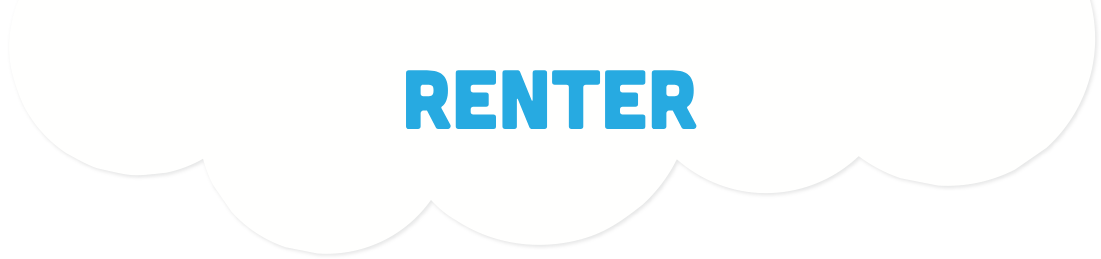
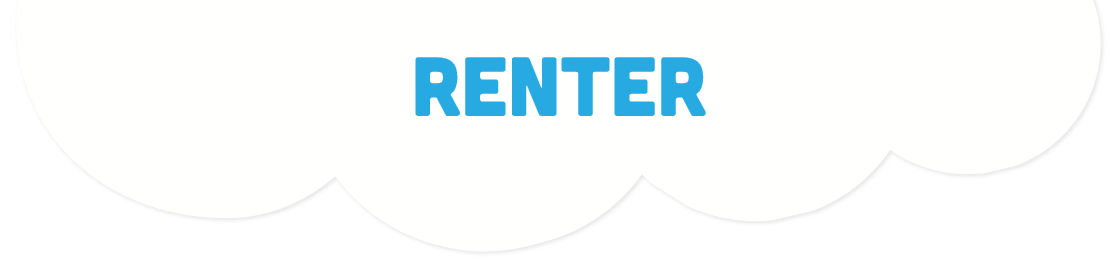
renter edit

Changed region(s): [[0.3706, 0.2162, 0.6485, 0.5251]]

diff --git a/src/app/auth/renter-register/renter-register.component.ts b/src/app/auth/renter-register/renter-register.component.ts
@@ -5,6 +5,8 @@ import { Router, ActivatedRoute } from '@angular/router';
 import { Web3Service } from '../../providers/web3/web3.service';
 import { UserWalletService } from '../../providers/user-wallet/user-wallet.service';
 import { RenterFactoryService } from '../../providers/renter-factory/renter-factory.service';
+import { ToastrService } from 'ngx-toastr';
+import { MustMatch } from '../../providers/helpers/MustMatch';
 const networkPath = require('electron').remote.getGlobal('networkPath');
 const path = require('path');
 const getNodeKey = require('../../../assets/js/helpers/getNodeKey.js');
@@ -27,6 +29,8 @@ export class RenterRegisterComponent implements OnInit {
   errorMessage;
   type = { Org: 0, Individual: 1 };
   currentType;
+  submitted = false;
+  Loading = false ;
   constructor(
     private rentersFactoryService: RenterFactoryService,
     private web3Service: Web3Service,
@@ -34,6 +38,7 @@ export class RenterRegisterComponent implements OnInit {
     private formBuilder: FormBuilder,
     private authService: AuthService,
     private route: ActivatedRoute,
+    private toastr: ToastrService ,
     private router: Router
   ) {
     this.createAccount('');
@@ -43,16 +48,19 @@ export class RenterRegisterComponent implements OnInit {
     this.renterRegisterForm = this.formBuilder.group({
       username: ['', Validators.required],
       bankAccount: ['', Validators.required],
-      email: ['', Validators.required],
-      password: ['', Validators.required],
+      email: ['', [Validators.required, Validators.email]],
+      password: ['', [Validators.required, Validators.minLength(7)]],
+      confirmPassword : ['', Validators.required],
       staticIP: ['', Validators.required],
       ethereumAddress: ['', Validators.required],
       // enode : ['' , Validators.required ],
       termService: ['', Validators.required],
       privacyPolicy: ['', Validators.required]
-    });
-    this.getIp();
+    }, {
+      validator: MustMatch('password', 'confirmPassword')
+  });
 
+    this.getIp();
     this.route.queryParams.subscribe(params => {
       const type = params['type'];
       console.log(type, ' type');
@@ -68,6 +76,8 @@ export class RenterRegisterComponent implements OnInit {
       }
     });
   }
+  get f() { return this.renterRegisterForm.controls; }
+
   async getIp() {
     try {
       const ip = await publicIp.v4();
@@ -78,6 +88,7 @@ export class RenterRegisterComponent implements OnInit {
     }
   }
   renterRegister() {
+    this.submitted = true;
     this.savetoContract();
   }
   returnToLogin() {
@@ -163,7 +174,7 @@ export class RenterRegisterComponent implements OnInit {
 
   savetoContract() {
     console.log('sending to contract');
-
+    this.Loading = true ;
     this.rentersFactoryService
       .renterRegisterSigned(
         this.currentType,
@@ -173,6 +184,7 @@ export class RenterRegisterComponent implements OnInit {
       )
       .then(s => {
         console.log(s, 'save to contract');
+        this.Loading = false ;
         if (s) {
           this.exportToFile(this.accountData);
           this.getEnode();
@@ -185,7 +197,6 @@ export class RenterRegisterComponent implements OnInit {
   }
   saveToNodeServer() {
     console.log(this.enode, 'this.enode');
-
     this.authService
       .registerClient(
         this.renterRegisterForm.value.username,

diff --git a/src/app/auth/login/login.component.ts b/src/app/auth/login/login.component.ts
@@ -2,7 +2,7 @@ import { Component } from '@angular/core';
 import { AuthService } from '../core/auth.service';
 import { Router, Params } from '@angular/router';
 import { FormBuilder, FormGroup, Validators } from '@angular/forms';
-// import { ToastrService } from 'ngx-toastr';
+import { ToastrService } from 'ngx-toastr';
 @Component({
   selector: 'app-login',
   templateUrl: 'login.component.html',
@@ -12,11 +12,12 @@ export class LoginComponent {
   loginForm: FormGroup;
   errorMessage: string = '';
   cate: any;
+  Loading =  false ;
 
   constructor(
     public authService: AuthService ,
     private router: Router ,
-    // private toastr: ToastrService ,
+    private toastr: ToastrService ,
     private fb: FormBuilder
   ) {
     this.createForm();
@@ -52,6 +53,7 @@ export class LoginComponent {
   // }
 
   login() {
+    this.Loading = true ;
     this.authService
       .login(this.loginForm.get('email').value, this.loginForm.get('pwd').value)
       .then(isAuth => {
@@ -74,23 +76,25 @@ export class LoginComponent {
           } else {
             this.errorMessage =
               'Incorrect credentials, please use the correct one';
+            this.toastr.error('Incorrect credentials, please use the correct one', 'Error!');    
           }
-        } else {
-          this.errorMessage =
-            'Incorrect credentials, please use the correct one';
-        }
+          this.Loading = false ;      
+        } 
       })
       .catch(err => {
-        this.errorMessage = err;
+        this.errorMessage = err; 
+        this.toastr.error('Wrong email or password!', 'Error!');       
         console.error(err);
+        this.Loading = false ;      
       });
 
     // this.authService.login(value)
   }
   createAccount() {
-    //   this.router.navigate(['/auth/renterRegister']);
+      // this.router.navigate(['/auth/renterRegister']);
+      this.router.navigate(['/auth/registerCompleted'])
     // this.router.navigate(['/auth/lenderRegister']);
-    this.router.navigate(['/auth/chooseCategory']);
+    // this.router.navigate(['/auth/chooseCategory']);
   }
  forgotPassword(){
      this.router.navigate(['/auth/forgotPassword']);

diff --git a/src/app/auth/renter-register/renter-register.component.html b/src/app/auth/renter-register/renter-register.component.html
@@ -3,7 +3,7 @@
     <div class="col-md-4"></div>
     <div class="col-md-4">
       <img
-        [ngClass]="currentType == 0 ? 'comapny' : 'individual'"
+        src="../../../assets/img/Renter(2).png"
         class="title"
       />
     </div>
@@ -32,6 +32,7 @@
             class="form-control"
             placeholder="Email"
           />
+          <label *ngIf=" f.email.errors && f.email.errors.email" class="error" style="margin-left: 50px;">Please enter a valid email.</label>
         </div>
         <div class="form-group">
           <input
@@ -40,6 +41,16 @@
             class="form-control"
             placeholder="Password"
           />
+          <label *ngIf="f.password.errors && f.password.errors.minlength" class="error" style="margin-left: 50px;">Password must be at least 7 characters</label>
+        </div>
+        <div class="form-group">
+          <input
+            type="password"
+            formControlName="confirmPassword"
+            class="form-control"
+            placeholder="Confirm Password"
+          />
+          <label *ngIf="f.confirmPassword.errors && f.confirmPassword.errors.mustMatch" class="error" style="margin-left: 40px;">Passwords must match</label>
         </div>
         <div class="form-group">
           <input
@@ -76,7 +87,7 @@
         <div class="form-group checkbox">
           <label class="form-control-checkbox">
             <input type="checkbox" value="true" formControlName="termService" />
-            Terms of Service
+             I agree to the Terms of Service
           </label>
         </div>
         <div class="form-group checkbox">
@@ -86,7 +97,7 @@
               value="true"
               formControlName="privacyPolicy"
             />
-            Privacy Policy
+             I agree to the Privacy Policy
           </label>
         </div>
         <button
@@ -95,6 +106,7 @@
           (click)="renterRegister()"
           class="btn btn-primary"
         >
+         <img *ngIf="Loading" src="../../../assets/img/loading-white.gif" style="width:15px"/>
           Sign Up
         </button>
       </form>

diff --git a/src/app/app.module.ts b/src/app/app.module.ts
@@ -5,8 +5,8 @@ import '../polyfills';
 import { BrowserModule } from '@angular/platform-browser';
 import { NgModule } from '@angular/core';
 import { FormsModule } from '@angular/forms';
-// import { BrowserAnimationsModule } from '@angular/platform-browser/animations';
-// import { ToastrModule } from 'ngx-toastr';
+import { BrowserAnimationsModule } from '@angular/platform-browser/animations';
+import { ToastrModule } from 'ngx-toastr';
 import {
   HttpClientModule,
   HttpClient,
@@ -44,8 +44,8 @@ export function HttpLoaderFactory(http: HttpClient) {
     HttpClientModule,
     AppRoutingModule,      
     AuthModule,
-    // BrowserAnimationsModule, // required animations module
-    // ToastrModule.forRoot() ,// ToastrModule added
+    BrowserAnimationsModule, // required animations module
+    ToastrModule.forRoot() ,// ToastrModule added
     TranslateModule.forRoot({
       loader: {
         provide: TranslateLoader,

diff --git a/src/app/providers/helpers/MustMatch.ts b/src/app/providers/helpers/MustMatch.ts
@@ -1,0 +1,21 @@
+import { FormGroup } from '@angular/forms';
+
+// custom validator to check that two fields match
+export function MustMatch(controlName: string, matchingControlName: string) {
+    return (formGroup: FormGroup) => {
+        const control = formGroup.controls[controlName];
+        const matchingControl = formGroup.controls[matchingControlName];
+
+        if (matchingControl.errors && !matchingControl.errors.mustMatch) {
+            // return if another validator has already found an error on the matchingControl
+            return;
+        }
+
+        // set error on matchingControl if validation fails
+        if (control.value !== matchingControl.value) {
+            matchingControl.setErrors({ mustMatch: true });
+        } else {
+            matchingControl.setErrors(null);
+        }
+    }
+}

diff --git a/src/app/pages/shared/raft-manage/raft-manage.component.ts b/src/app/pages/shared/raft-manage/raft-manage.component.ts
@@ -1,6 +1,6 @@
 import { Component, OnInit } from '@angular/core';
 import { FormBuilder, Validators, FormGroup } from '@angular/forms';
-import {} from '@angular/forms/src/model';
+// import {} from '@angular/forms/src/model';
 import { AuthService } from '../../../auth/core/auth.service';
 import { ServerApiService } from '../../../providers/server-api/server-api.service';
 const networkPath = require('electron').remote.getGlobal('networkPath');

diff --git a/src/app/auth/registeration-completed/registeration-completed.component.html b/src/app/auth/registeration-completed/registeration-completed.component.html
@@ -12,7 +12,7 @@
    <div class="col-md-3"></div>
    <div class="col-md-6" style="padding-top: 100px">
      <p>Please wait while we review your account to join the Vuuple Network.<br>
-        We will notify you by email once your account is accepted</p>
+        We will notify you by email once your account is accepted.&nbsp;&nbsp;&nbsp;&nbsp;&nbsp;&nbsp;&nbsp;&nbsp;&nbsp;&nbsp;&nbsp;&nbsp;</p>
         <br>
         <br>
         <br>

diff --git a/src/app/auth/login/login.component.html b/src/app/auth/login/login.component.html
@@ -49,6 +49,7 @@
             [disabled]="!loginForm.valid"
             class="btn btn-primary"
           >
+          <img *ngIf="Loading" src="../../../assets/img/loading-white.gif" style="width:15px"/>
             Log in
           </button>
           <p style="margin-top: 10px;">

diff --git a/src/app/auth/registeration-completed/registeration-completed.component.scss b/src/app/auth/registeration-completed/registeration-completed.component.scss
@@ -15,7 +15,7 @@
       color:white;
       font-family: sans-serif;
       text-align: center;
-      font-size: 17px;
+      font-size: 18px;
       font-weight: 500
   }
   p > img {

diff --git a/src/app/auth/renter-register/renter-register.component.scss b/src/app/auth/renter-register/renter-register.component.scss
@@ -67,7 +67,7 @@ button {
   -webkit-appearance: button-bevel;
   line-height: initial;
   font-size: 20px;
-  width: 25%;
+  width: 30%;
   margin-left: 40%;
 }
 .comapny {
